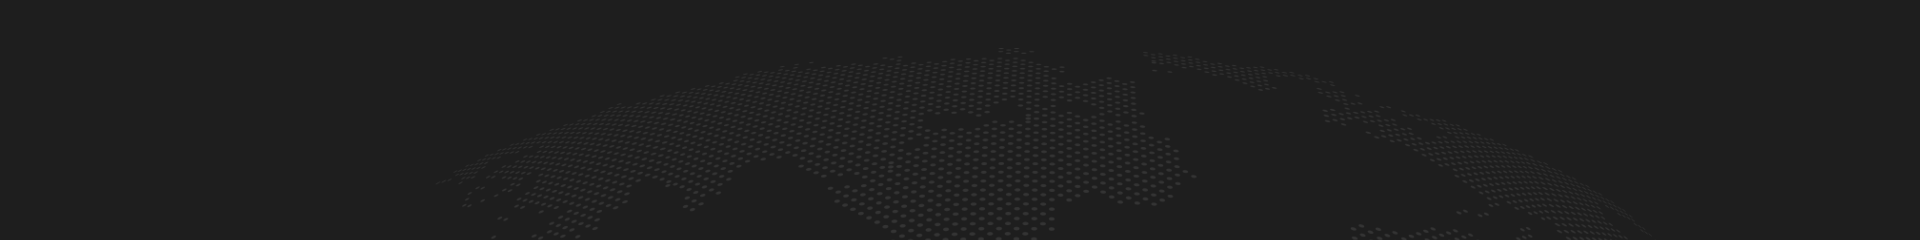
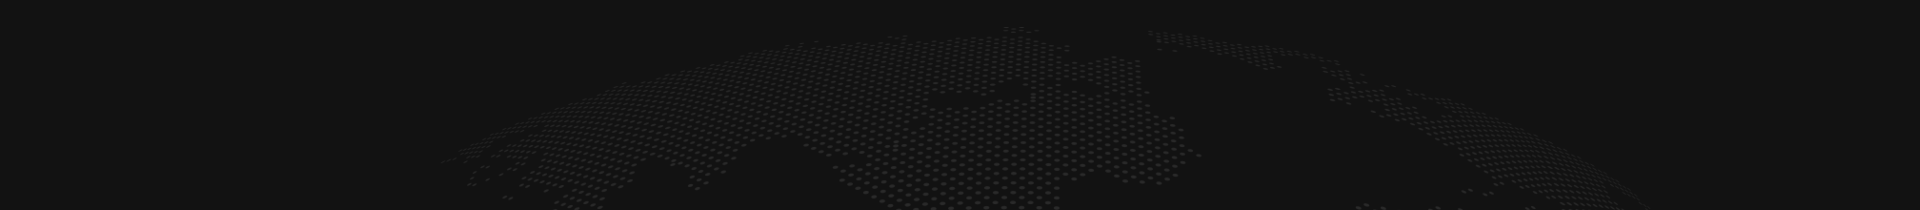
feat: Tag组件

diff --git a/opendesign/tag/src/var.scss b/opendesign/tag/src/var.scss
@@ -1,0 +1,52 @@
+.o-tag {
+  // 文字颜色
+  --o-tag-font-color: var(--o-color-text3);
+  --o-tag-font-color-primary: var(--o-color-brand);
+  --o-tag-font-color-secondary: var(--o-color-text2);
+  // 文字颜色 hover态，注：只有类型为outline的按钮hover时有文字颜色变化
+  --o-tag-font-color_hover: var(--o-color-brand_hover);
+  // 文字颜色 avtive态，注：只有类型为outline的按钮active时有文字颜色变化
+  --o-tag-font-color_active: var(--o-color-brand_active);
+
+  // 背景颜色
+  --o-tag-bg-color: var(--o-color-transparent);
+  --o-tag-bg-color-primary: var(--o-color-brand);
+  --o-tag-bg-color-secondary: var(--o-color-secondary);
+  --o-tag-bg-color-text: var(--o-color-transparent);
+
+  // 背景颜色 hover态
+  --o-tag-bg-color_hover: var(--o-color-transparent);
+  --o-tag-bg-color-primary_hover: var(--o-color-brand_hover);
+
+  // 背景颜色 active态
+  --o-tag-bg-color_active: var(--o-color-transparent);
+  --o-tag-bg-color-primary_active: var(--o-color-brand_active);
+  --o-tag-bg-color-secondary_active: var(--o-color-secondary_active);
+  --o-tag-bg-color-text_active: var(--o-color-secondary_active);
+
+  // border
+  --o-tag-border: 1px solid var(--o-tag-font-color);
+  --o-tag-border-primary: 1px solid var(--o-color-brand);
+  --o-tag-border-secondary: 1px solid var(--o-color-transparent);
+  --o-tag-border-text: 1px solid var(--o-color-transparent);
+  // border hover态
+  --o-tag-border_hover: 1px solid var(--o-color-brand_hover);
+  --o-tag-border-primary_hover: 1px solid var(--o-color-brand_hover);
+  --o-tag-border-text_hover: 1px solid var(--o-color-secondary_hover);
+
+  // font-size
+  --o-tag-font-size: var(--o-font-size-text);
+  --o-tag-small-font-size: var(--o-font-size-tip);
+
+  // line-height
+  --o-tag-line-height: var(--o-line-height-text);
+  --o-tag-small-line-height: var(--o-line-height-tip);
+
+  // padding
+  --o-tag-padding: 3px 12px;
+  --o-tag-small-padding: 0 8px;
+  --o-tag-secondary-padding: 2px 4px;
+
+  // 特殊背景
+  --o-tag-bg-color-secondary: linear-gradient(225deg, #feb32a 0%, #f6d365 100%);
+}

diff --git a/app/.vitepress/src/components/AppFooter.vue b/app/.vitepress/src/components/AppFooter.vue
@@ -3,7 +3,7 @@ import { computed } from 'vue';
 import { useRouter, useData } from 'vitepress';
 // import { useI18n } from 'vue-i18n';
 
-import footerLogo from '@/assets/footer-logo2.svg';
+import footerLogo from '@/assets/footer-logo2.png';
 import atomLogo from '@/assets/atom-pc.png';
 import wechatImg from '@/assets/qrcode.png';
 
@@ -103,11 +103,14 @@ const handleNavClick = (link: NavItem) => {
 <style lang="scss" scoped>
 $color: #fff;
 .footer {
-  padding: var(--o-spacing-l) 0 0;
   background: #121212;
   .atom {
     text-align: center;
-
+    max-width: 1416px;
+    padding: 64px 0 40px;
+    position: relative;
+    margin: 0 auto;
+    display: none;
     &-text {
       font-size: var(--o-font-size-h5);
       font-weight: 400;
@@ -116,36 +119,35 @@ $color: #fff;
     }
     &-logo {
       height: 48px;
-      margin: var(--o-spacing-m) 0;
+      margin-top: 40px;
+    }
+    &::after {
+      background: #e5e5e5;
+      opacity: 0.12;
+      position: absolute;
+      bottom: 0px;
+      left: 0;
+      width: 1416px;
+      content: '';
+      height: 2px;
     }
   }
 
   &-content {
     background: url('/img/footer-bg.png') no-repeat bottom center;
-
     .inner {
       max-width: 1416px;
       margin: 0 auto;
       display: flex;
       align-items: center;
       justify-content: space-between;
-      padding: var(--o-spacing-m) 0;
+      padding: 42px 0 64px;
       position: relative;
-      &::after {
-        background: #e5e5e5;
-        opacity: 0.12;
-        position: absolute;
-        top: 0px;
-        left: 0;
-        width: 1416px;
-        content: '';
-        height: 2px;
-      }
+      min-height: 210px;
     }
   }
   &-logo img {
-    height: 28px;
-    margin-bottom: var(--o-spacing-s2);
+    height: 60px;
   }
 
   .copyright {
@@ -156,9 +158,7 @@ $color: #fff;
 
   .footer-option {
     text-align: center;
-    &-item {
-      margin-bottom: 12px;
-    }
+
     .link {
       color: $color;
       font-size: var(--o-font-size-text);

diff --git a/opendesign/tag/src/tag.scss b/opendesign/tag/src/tag.scss
@@ -1,0 +1,57 @@
+@import '../../style/variable.scss';
+@import './var.scss';
+
+.o-tag {
+  padding: var(--o-tag-padding);
+  font-size: var(--o-tag-font-size);
+  line-height: var(--o-tag-line-height);
+  color: var(--o-tag-font-color);
+  border: var(--o-tag-border);
+  outline: none;
+  user-select: none;
+  cursor: pointer;
+  display: inline-block;
+
+  &:active {
+    color: var(--o-tag-font-color_active);
+    border: var(--o-tag-font-color_active);
+  }
+
+  &.o-tag-type-primary {
+    color: var(--o-tag-font-color-primary);
+    border: var(--o-tag-border-primary);
+    &:hover {
+      color: var(--o-color-brand_hover);
+      border: var(--o-tag-border-primary_hover);
+    }
+  }
+
+  &.o-tag-type-secondary {
+    color: var(--o-tag-font-color-secondary);
+    border: var(--o-tag-border-secondary);
+    line-height: var(--o-tag-small-line-height);
+    padding: var(--o-tag-secondary-padding);
+    background: var(--o-tag-bg-color-secondary);
+  }
+
+  &.o-tag-type-text {
+    color: var(--o-tag-font-color);
+    border: var(--o-tag-border-text);
+    background: none;
+    &:hover,
+    &:active {
+      color: var(--o-tag-font-color_hover);
+    }
+  }
+  &.o-tag-size-small {
+    padding: var(--o-tag-small-padding);
+    font-size: var(--o-tag-small-font-size);
+    line-height: var(--o-tag-small-line-height);
+    cursor: default;
+    &:hover,
+    &:active {
+      color: var(--o-tag-font-color);
+      border: var(--o-tag-border);
+    }
+  }
+}

diff --git a/opendesign/tag/src/tag.tsx b/opendesign/tag/src/tag.tsx
@@ -1,0 +1,32 @@
+import { computed, defineComponent, toRefs } from 'vue';
+import { tagProps, TagProps } from './tag-types';
+import './tag.scss';
+
+export default defineComponent({
+  name: 'OTag',
+  props: tagProps,
+  emits: ['click'],
+  setup(props: TagProps, { emit, slots }) {
+    const { size, type } = toRefs(props);
+
+    const classNames = computed(() => {
+      return [
+        'o-tag',
+        `o-tag-size-${size.value}`,
+        `o-tag-type-${type.value}`,
+      ].join(' ');
+    });
+
+    const onClick = (e: MouseEvent) => {
+      emit('click', e);
+    };
+
+    return () => {
+      return (
+        <span class={classNames.value} onClick={onClick}>
+          <span>{slots.default?.()}</span>
+        </span>
+      );
+    };
+  },
+});

diff --git a/opendesign/tag/src/tag-types.ts b/opendesign/tag/src/tag-types.ts
@@ -1,0 +1,17 @@
+import { ExtractDefaultPropTypes, PropType } from 'vue';
+import { SizeType } from '../../_utils/common';
+
+type TagType = 'outline' | 'primary' | 'secondary' | 'text';
+
+export const tagProps = {
+  size: {
+    type: String as PropType<SizeType>,
+    default: 'medium',
+  },
+  type: {
+    type: String as PropType<TagType>,
+    default: 'outline',
+  },
+};
+
+export type TagProps = ExtractDefaultPropTypes<typeof tagProps>;

diff --git a/app/.vitepress/src/views/TheDemo.vue b/app/.vitepress/src/views/TheDemo.vue
@@ -30,6 +30,11 @@ const name = ref('zhangsan');
 
     <h4>OButton</h4>
     <OButton>OButton</OButton>
+    <h4>OTag</h4>
+    <OTag type="text">OTag-0</OTag>
+    <OTag type="primary">OTag-0</OTag>
+    <OTag type="secondary">特殊tag</OTag>
+    <OTag size="small">OTag-1</OTag>
 
     <h4>封装elementplus OInput</h4>
     <OInput v-model="name"></OInput>

diff --git a/opendesign/index.ts b/opendesign/index.ts
@@ -6,6 +6,7 @@ import { Select } from './select';
 
 import { Icon } from './icon';
 import { Card } from './card';
+import { Tag } from './tag';
 import { Tabs, TabPane } from './tabs';
 import { Input } from './input';
 
@@ -16,6 +17,7 @@ const components = [
   Select,
   Icon,
   Card,
+  Tag,
   Input,
   Tabs,
   TabPane,

diff --git a/opendesign/tag/index.ts b/opendesign/tag/index.ts
@@ -1,0 +1,8 @@
+import type { App } from 'vue';
+import Tag from './src/tag';
+
+Tag.install = function (app: App) {
+  app.component(Tag.name, Tag);
+};
+
+export { Tag };
